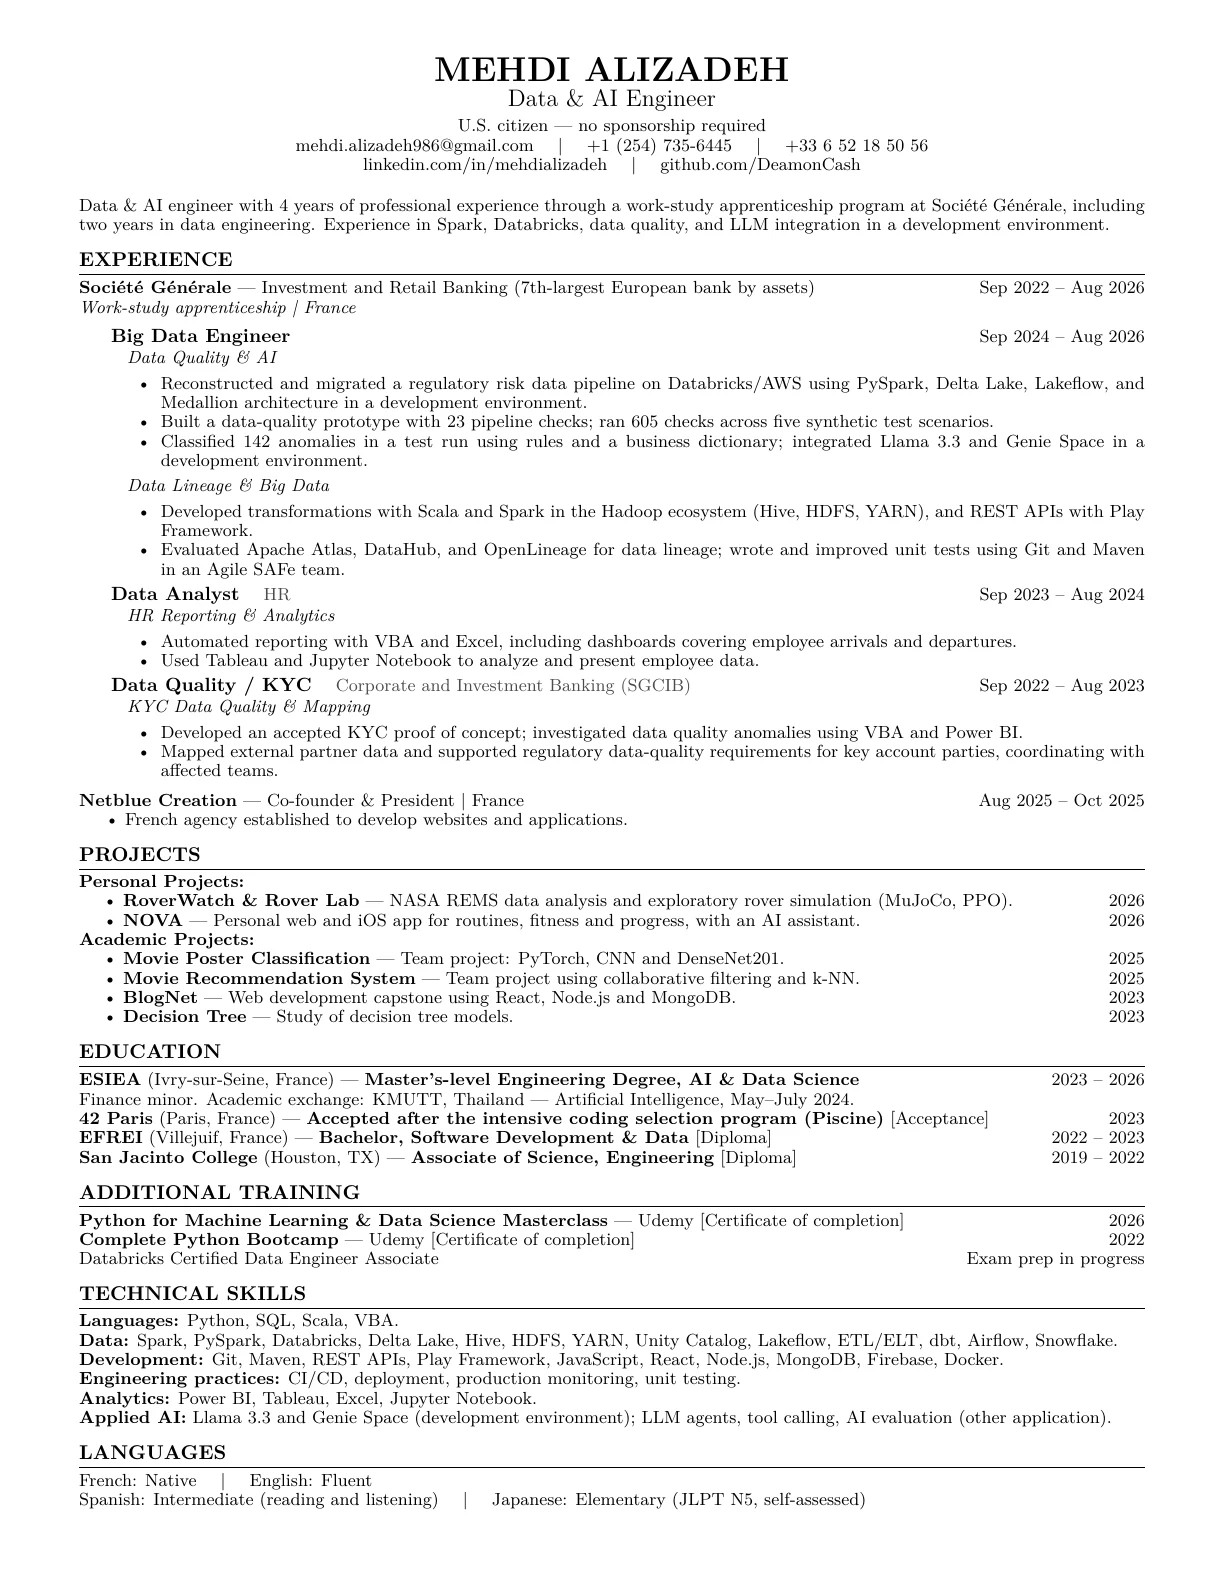
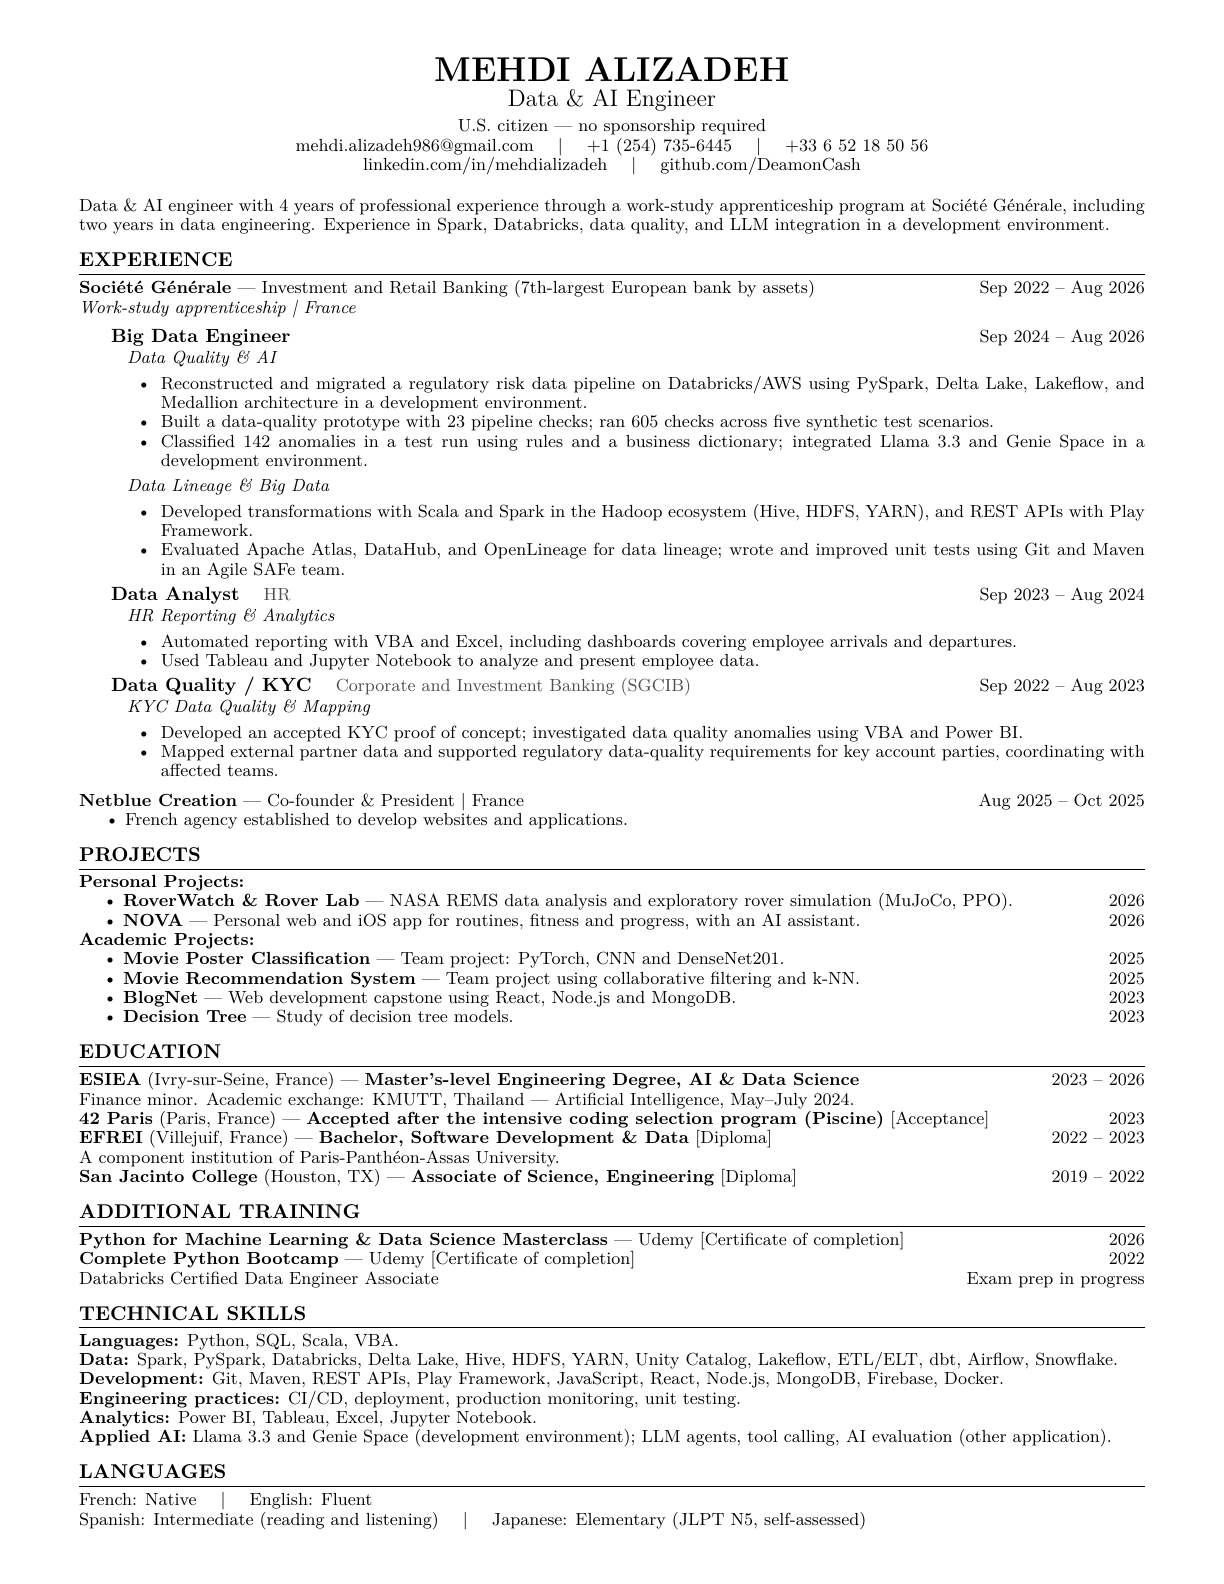
Add EFREI’s Paris-Panthéon-Assas affiliation

Changed region(s): [[0.0621, 0.7115, 0.9003, 0.959], [0.9003, 0.7115, 0.9314, 0.8352], [0.8382, 0.7734, 0.8693, 0.8043]]

diff --git a/index.html b/index.html
@@ -14,7 +14,7 @@
 <article class="project"><button class="project-toggle" aria-expanded="false" aria-controls="project-03"><span class="number">03</span><span class="row-label"><strong>Movie Poster Classification</strong><small>Academic team project · Deep learning · 2025</small></span><span class="arrow" aria-hidden="true">↗</span></button><div class="project-panel" id="project-03" aria-hidden="true"><div class="project-panel-inner"><div class="project-content"><div class="placeholder"><span>COMPUTER VISION · TEAM PROJECT</span><strong>Movie Poster Classification</strong><div class="fake-lines">PYTORCH / CNN / DENSENET201</div></div><div class="project-description"><p>In a five-person academic project, we compared convolutional neural networks and pretrained models to classify movie posters. The project explored computer vision using PyTorch and DenseNet201.</p><small class="repo-note">Academic team project · Public code not yet available</small></div></div></div></div></article>
 </div></section>
 <section class="section" id="experience"><div class="short-line"></div><h2>Experience</h2><div class="employer-heading"><h3>Société Générale</h3><p>Work-study apprenticeship · France · 2022–2026</p></div><div class="experience-list"><details><summary><span>2024 — 2026</span><strong>Big Data Engineer</strong><b>+</b></summary><div class="exp-body"><p>Reconstructed and migrated a regulatory risk pipeline in a development environment using Databricks, AWS, PySpark, Delta Lake, Lakeflow and Medallion architecture.</p><p>Built a data quality prototype with 23 pipeline checks and ran 605 checks across five synthetic test scenarios. Classified 142 anomalies in a test run and integrated Llama 3.3 and Genie Space in a development environment.</p><p>Developed transformations with Scala and Spark, REST APIs with Play Framework, evaluated data lineage tools and improved unit tests.</p><div class="experience-projects"><h4>Selected projects</h4><details><summary>2026 · Data Quality &amp; AI prototype <span>+</span></summary><div class="experience-project-body"><p>Reconstructed a regulatory risk data pipeline in a development environment and built automated data-quality checks with Databricks, PySpark and Delta Lake.</p><p>Defined 23 pipeline checks and ran 605 check executions across five synthetic scenarios. Explored Llama 3.3 and Genie Space to support anomaly diagnostics.</p><small>Public summary based on the 2026 engineering presentation · Test environment</small></div></details><details><summary>2025 · Data Lineage &amp; Big Data Engineering <span>+</span></summary><div class="experience-project-body"><p>Studied data-lineage approaches, evaluated tools, and contributed improvements to distributed data workflows and internal APIs.</p><p>Worked with Scala, Spark, Hive, HDFS, Git and Maven, using code reviews and unit tests.</p><small>Public summary based on the 2025 engineering presentation</small></div></details></div></div></details><details><summary><span>2023 — 2024</span><strong>Data Analyst — HR</strong><b>+</b></summary><div class="exp-body"><p>Automated HR reporting with VBA and Excel and used Tableau and Jupyter Notebook to analyze and present employee data.</p><div class="experience-projects"><h4>Selected project</h4><details><summary>2023–2024 · HR Reporting &amp; Data Analysis <span>+</span></summary><div class="experience-project-body"><p>Automated recurring HR reporting with VBA and Excel, including dashboards on employee arrivals and departures. Used Tableau and Jupyter Notebook to analyze and present data.</p><small>Public project summary · Original presentation not yet located</small></div></details></div></div></details><details><summary><span>2022 — 2023</span><strong>Data Quality / KYC</strong><b>+</b></summary><div class="exp-body"><p>Developed an accepted KYC proof of concept, investigated data quality anomalies, mapped external partner data and supported regulatory requirements.</p><div class="experience-projects"><h4>Selected project</h4><details><summary>2022–2023 · KYC Data Quality &amp; Mapping <span>+</span></summary><div class="experience-project-body"><p>Developed an accepted KYC proof of concept, investigated data-quality anomalies, and mapped external partner data to support regulatory requirements.</p><p>Used VBA and Power BI in coordination with affected teams.</p><small>Public summary based on the 2023 academic presentation</small></div></details></div></div></details></div><div class="employer-heading"><h3>Netblue Creation</h3><p>French agency · 2025</p></div><div class="experience-list"><details><summary><span>2025</span><strong>Co-founder &amp; President</strong><b>+</b></summary><div class="exp-body"><p>French agency established to develop websites and applications.</p></div></details></div></section>
-<section class="section" id="education"><div class="short-line"></div><h2>Education</h2><div class="education-list"><div><span>2023 — 2026</span><p><strong>ESIEA (Ivry-sur-Seine, France)</strong><br>Master’s-level Engineering Degree, AI &amp; Data Science</p></div><div><span>2023</span><p><strong>42 Paris (Paris, France)</strong><br>Accepted after the intensive coding selection program (Piscine) <a class="education-diploma-link" href="#42-acceptance">[Acceptance]</a></p></div><div><span>2022 — 2023</span><p><strong>EFREI (Villejuif, France)</strong><br>Bachelor, Software Development &amp; Data <a class="education-diploma-link" href="#efrei-diploma">[Diploma]</a></p></div><div><span>2019 — 2022</span><p><strong>San Jacinto College (Houston, TX)</strong><br>Associate of Science, Engineering <a class="education-diploma-link" href="#san-jacinto-diploma">[Diploma]</a></p></div></div>
+<section class="section" id="education"><div class="short-line"></div><h2>Education</h2><div class="education-list"><div><span>2023 — 2026</span><p><strong>ESIEA (Ivry-sur-Seine, France)</strong><br>Master’s-level Engineering Degree, AI &amp; Data Science</p></div><div><span>2023</span><p><strong>42 Paris (Paris, France)</strong><br>Accepted after the intensive coding selection program (Piscine) <a class="education-diploma-link" href="#42-acceptance">[Acceptance]</a></p></div><div><span>2022 — 2023</span><p><strong>EFREI (Villejuif, France)</strong><br>Bachelor, Software Development &amp; Data <a class="education-diploma-link" href="#efrei-diploma">[Diploma]</a><br>Component institution of Paris-Panthéon-Assas University.</p></div><div><span>2019 — 2022</span><p><strong>San Jacinto College (Houston, TX)</strong><br>Associate of Science, Engineering <a class="education-diploma-link" href="#san-jacinto-diploma">[Diploma]</a></p></div></div>
   <article class="credential" id="42-acceptance" tabindex="-1" aria-labelledby="42-acceptance-title">
     <h3 id="42-acceptance-title">42 Paris admission email</h3>
     <div class="credential-switch" role="group" aria-label="Admission email language">
@@ -64,13 +64,13 @@
       <h2 id="resume-title">Résumé</h2>
       <p class="resume-name">Mehdi Alizadeh</p>
       <p class="resume-meta">Data &amp; AI Engineer<br>1 page</p>
-      <a class="project-repo" href="resume.pdf?v=education-proofs2" download="Mehdi-Alizadeh-Resume.pdf">Download PDF <span aria-hidden="true">↓</span></a>
+      <a class="project-repo" href="resume.pdf?v=efrei-assas-20261123" download="Mehdi-Alizadeh-Resume.pdf">Download PDF <span aria-hidden="true">↓</span></a>
     </div>
     <figure class="resume-preview">
       <button type="button" class="resume-expand" aria-label="Enlarge résumé preview" aria-haspopup="dialog" aria-controls="resume-viewer" hidden>
         <svg width="18" height="18" viewBox="0 0 24 24" fill="none" stroke="currentColor" stroke-width="1.8" aria-hidden="true"><path d="M8 3H3v5m13-5h5v5m0 8v5h-5M3 16v5h5"/></svg>
       </button>
-      <img src="assets/resume-preview.webp?v=education-proofs2" alt="Preview of Mehdi Alizadeh’s résumé" width="1224" height="1584" loading="lazy">
+      <img src="assets/resume-preview.webp?v=efrei-assas-20261123" alt="Preview of Mehdi Alizadeh’s résumé" width="1224" height="1584" loading="lazy">
     </figure>
   </div>
   <dialog class="resume-viewer" id="resume-viewer" aria-labelledby="resume-viewer-title">
@@ -79,10 +79,10 @@
       <form method="dialog"><button type="submit" class="resume-close" aria-label="Close résumé preview" autofocus>×</button></form>
     </div>
     <div class="resume-viewer-page">
-      <img src="assets/resume-preview.webp?v=education-proofs2" alt="Enlarged preview of Mehdi Alizadeh’s résumé" width="1224" height="1584" loading="lazy">
+      <img src="assets/resume-preview.webp?v=efrei-assas-20261123" alt="Enlarged preview of Mehdi Alizadeh’s résumé" width="1224" height="1584" loading="lazy">
       <a class="resume-credential-link" href="#42-acceptance" aria-label="View 42 Paris acceptance" style="left:72.733%;top:70.163%;width:8.099%;height:1.107%"></a>
       <a class="resume-credential-link" href="#efrei-diploma" aria-label="View EFREI diploma" style="left:56.804%;top:71.384%;width:6.278%;height:1.107%"></a>
-      <a class="resume-credential-link" href="#san-jacinto-diploma" aria-label="View San Jacinto College diploma" style="left:58.853%;top:72.604%;width:6.278%;height:1.107%"></a>
+      <a class="resume-credential-link" href="#san-jacinto-diploma" aria-label="View San Jacinto College diploma" style="left:58.853%;top:73.824%;width:6.278%;height:1.107%"></a>
     </div>
   </dialog>
 </section>
